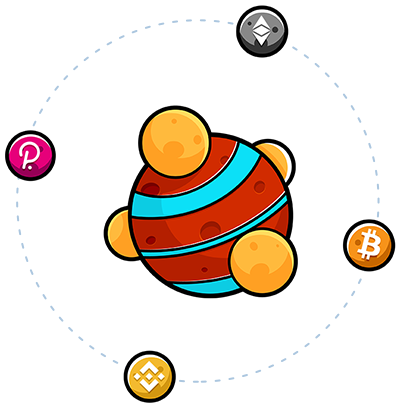
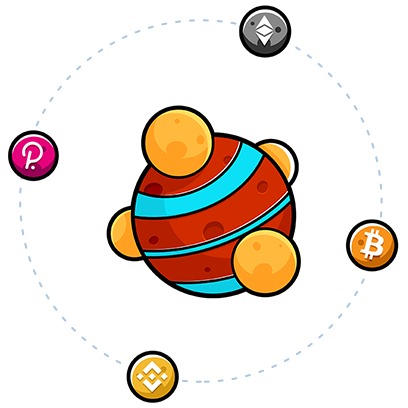
Testing responsive.

diff --git a/src/components/Hero/anim.js b/src/components/Hero/anim.js
@@ -5,12 +5,16 @@ import bg from '../../images/bg.png';
 import saturn from '../../images/saturn.png';
 import astronaut from '../../images/astronaut.png';
 import chains from '../../images/chains.png';
-// import defi from '../../images/defi.png';
-// import stables from '../../images/stables.png';
+import defi from '../../images/defi.png';
+import stables from '../../images/stables.png';
+
+const FloatingAnimation = keyframes`
+  0% { transform: translateY(0px); }
+  100% { transform: translateY(5vh); }
+`; 
 
 const HeroAnim = styled.div`
   position: fixed;
-  /* background-color: #f0f; */
   right: 0;
   top: 0;
   width: 100%;
@@ -36,6 +40,8 @@ const AnimBg = styled(AnimImg)`
   background-image: url(${bg});
   background-position-y: bottom;
   opacity: 1;
+  filter: brightness(1.1);
+  background-blend-mode: luminosity;
 `;
 
 const AnimSaturn = styled(AnimImg)`
@@ -53,31 +59,38 @@ const AnimSaturn = styled(AnimImg)`
 
 const AnimChains = styled(AnimImg)`
   background-image: url(${chains});
-  width: 401px;
-  height: 20vh;
-  top: 50%;
+  height: 40vh;
+  width: 40vh;
+  top: 50vh;
   margin-top: -10vh;
-  left: 0;
+  left: 0vh;
+  filter: drop-shadow(0px 32px 20px #000c61);
+`;
+
+const AnimDefi = styled(AnimImg)`
+  background-image: url(${defi});
+  width: 45vh;
+  height: 45vh;
+  top: 15vh;
+  right: 0vh;
   filter: drop-shadow(0px 32px 20px #000c61);
 `;
 
 
-const AnimDefi = styled(AnimImg)`
-`;
-
-
 const AnimStables = styled(AnimImg)`
+  background-image: url(${stables});
+  width: 20vh;
+  height: 20vh;
+  top: 12vh;
+  left: 15vw;
+  filter: drop-shadow(0px 32px 20px #000c61);
 `;
 
-const FloatingAnimation = keyframes`
-  0% { transform: translateY(0px); }
-  100% { transform: translateY(5vh); }
-`; 
 
 const AnimAstronaut = styled(AnimImg)`
   background-image: url(${astronaut});
   width: 100%;
-  height: 30vh;
+  height: 35vh;
   bottom: 20vh;
   filter: drop-shadow(0px 64px 32px #000c61);
   animation: 2s ease-in-out 0s infinite alternate both running ${FloatingAnimation};
